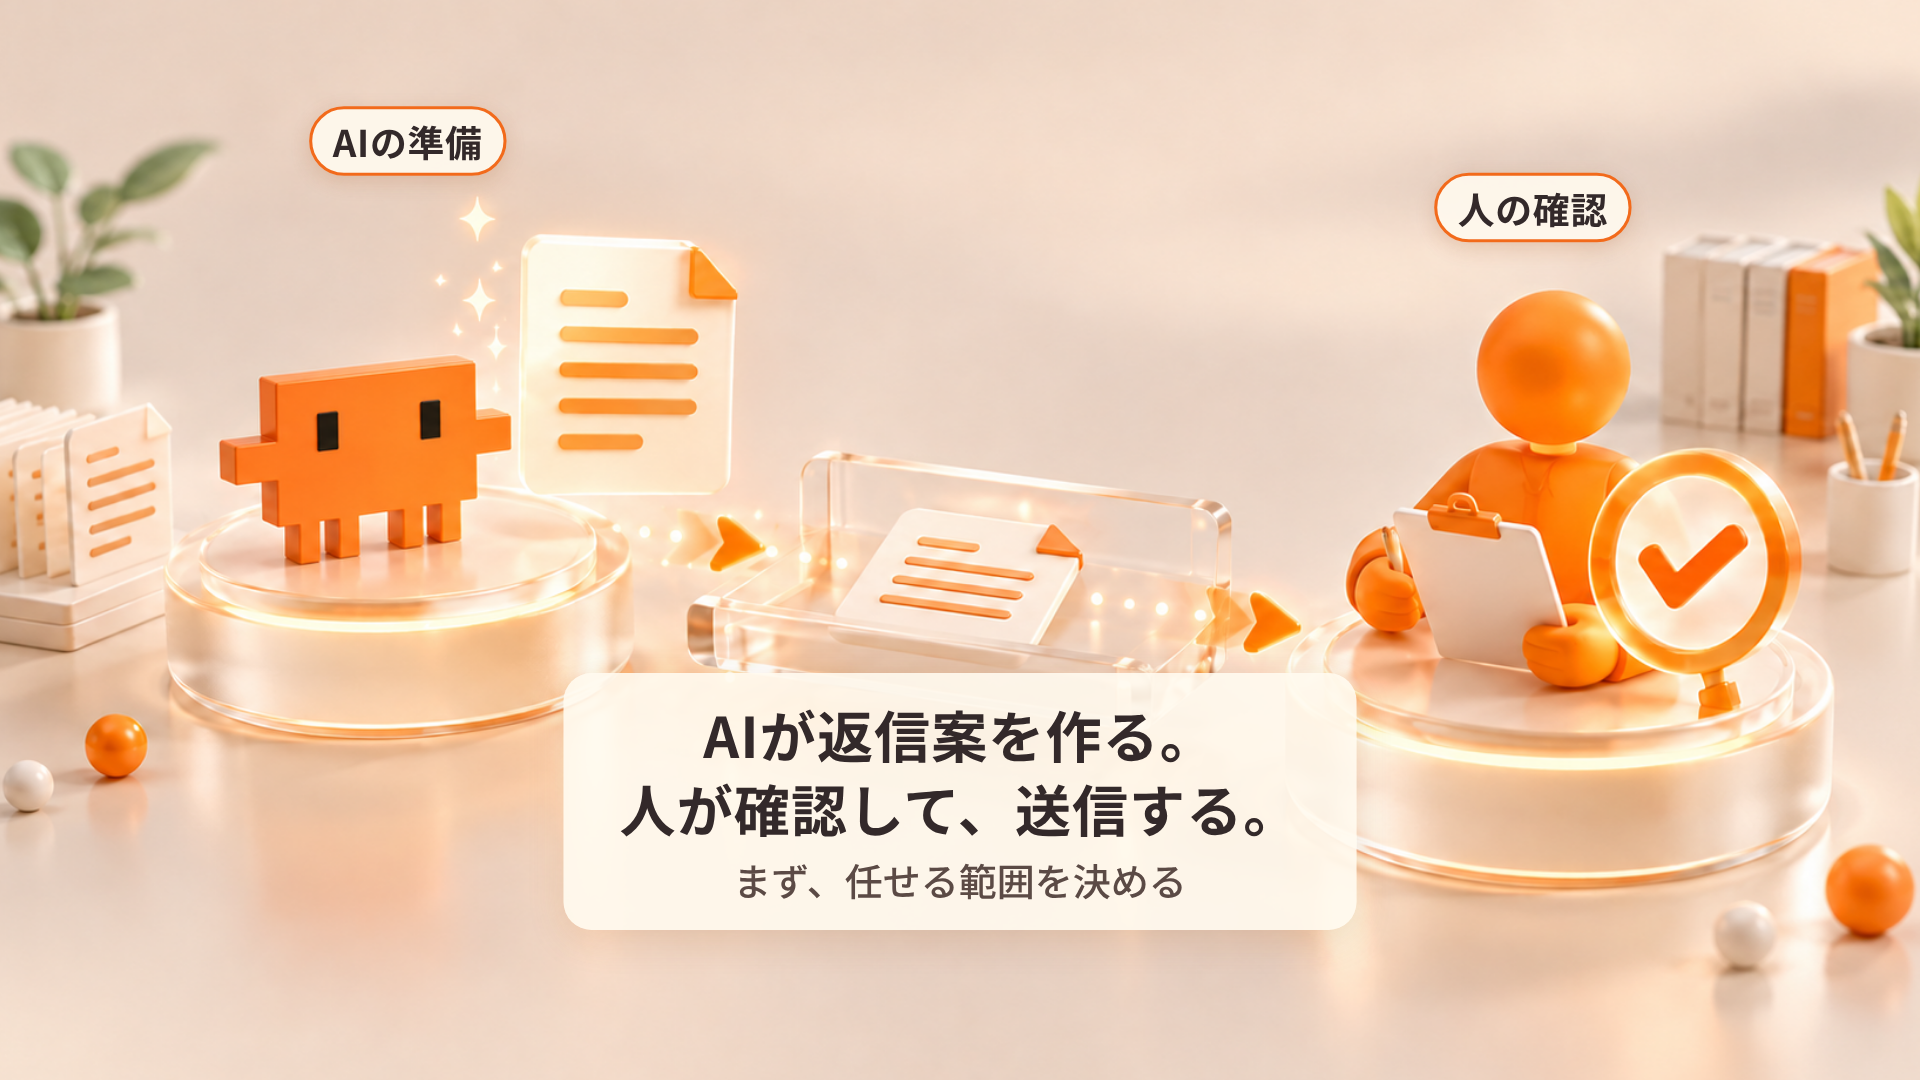
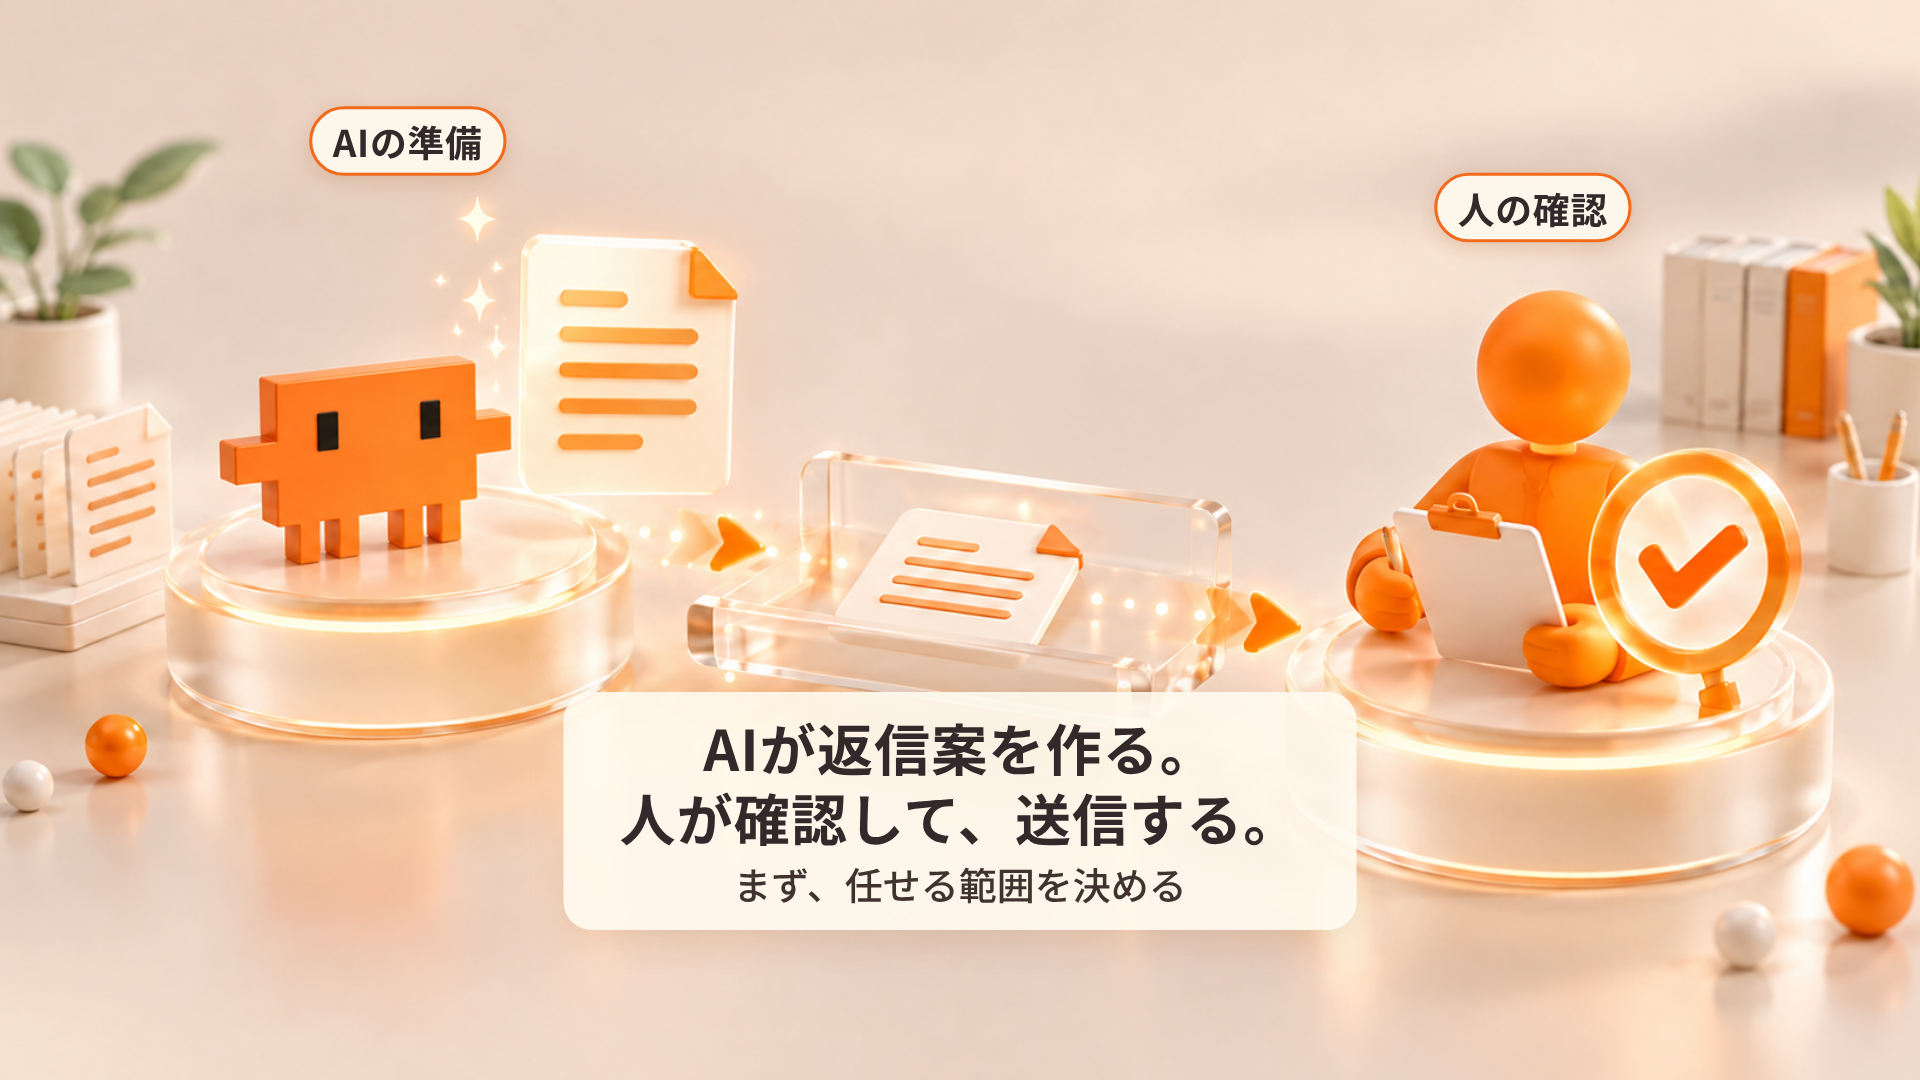
ART-005: レビュー指摘の反映（字幕帯・バナー・切り替え）
- 公式バナーの角丸クリップをやめ、素材をそのまま表示
- S2/S7は帯を出したまま文字だけ切り替え（帯の点滅感を解消）
- シーン間クロスフェードを8→5フレームに短縮（Claudeの二重写りを軽減）
- 字幕帯を詰め、補助字幕を濃色化。S5の注釈の間隔と位置を調整
MP4は再レンダリング完了後に差し替える。

Claude-Session: https://claude.ai/code/session_013MU3vUxWwY5xVpvTsQjPcF

Changed region(s): [[0.3125, 0.6111, 0.7188, 0.8556]]

diff --git a/video-art005/src/index.html b/video-art005/src/index.html
@@ -33,17 +33,19 @@
   .band {
     position: absolute; left: 50%; bottom: 150px; transform: translateX(-50%);
     background: var(--ivory-band); color: var(--charcoal);
-    border-radius: 28px; padding: 24px 56px; text-align: center;
+    border-radius: 28px; padding: 20px 56px; text-align: center;
     box-shadow: 0 10px 36px rgba(160, 80, 20, .16);
     white-space: nowrap; opacity: 0;
   }
-  .band .main { font-weight: 700; font-size: 56px; line-height: 1.32; letter-spacing: .02em; }
+  .band .main { font-weight: 700; font-size: 56px; line-height: 1.26; letter-spacing: .02em; }
   .band .main .line { display: block; }
   .band .main .arrow { color: var(--orange-deep); }
-  .band .sub { font-weight: 500; font-size: 38px; line-height: 1.4; color: var(--charcoal-soft); margin-top: 8px; }
-  .band.q { padding: 22px 64px; }
+  .band .sub { font-weight: 500; font-size: 38px; line-height: 1.4; color: #3f322f; margin-top: 4px; }
+  .band.q { padding: 20px 64px; }
   .band.q .main { font-size: 58px; }
 
+  .band.swap { display: grid; }
+  .band.swap .main { grid-area: 1 / 1; align-self: center; opacity: 0; }
   .pill {
     position: absolute; transform: translate(-50%, -50%);
     height: 68px; padding: 0 20px; display: flex; align-items: center; justify-content: center;
@@ -69,7 +71,7 @@
   .s3-img img { width: 100%; height: 100%; display: block; object-fit: cover; }
 
   /* シーン7：バナー全体表示（1200x683 → 1000x569） */
-  .s7-banner { position: absolute; left: 460px; top: 100px; width: 1000px; height: 569px; border-radius: 28px; overflow: hidden; box-shadow: 0 28px 60px rgba(200, 80, 20, .28); transform-origin: 50% 50%; }
+  .s7-banner { position: absolute; left: 460px; top: 100px; width: 1000px; height: 569px; overflow: hidden; box-shadow: 0 28px 60px rgba(200, 80, 20, .28); transform-origin: 50% 50%; }
   .s7-banner img { width: 100%; height: 100%; display: block; object-fit: contain; }
 </style>
 </head>
